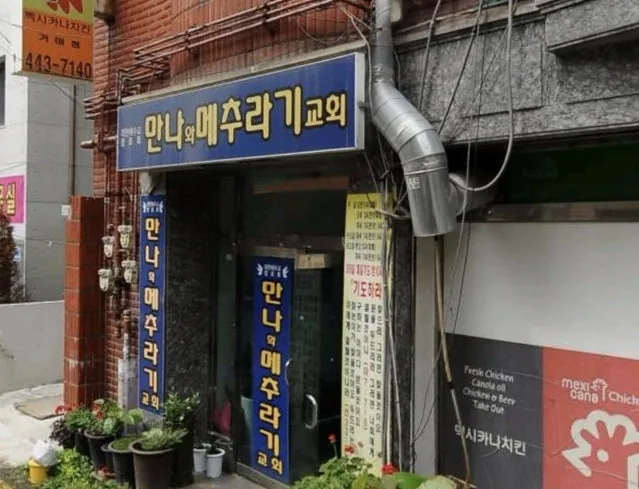
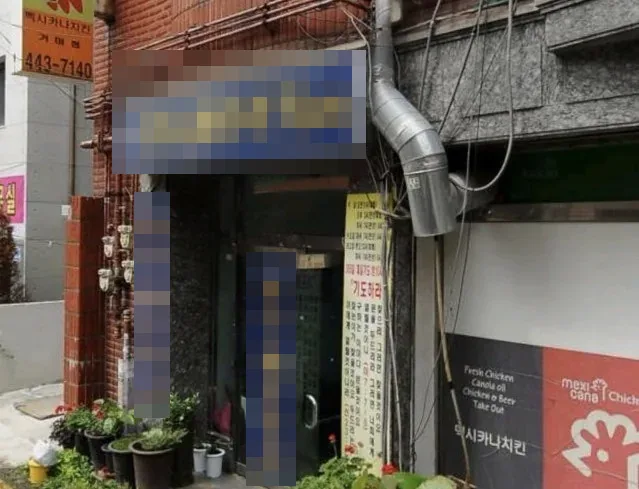
feat: 옛 교회 사진 추가 및 거여동 사진 간판 모자이크 #1

Changed region(s): [[0.1487, 0.092, 0.5947, 0.8589], [0.3865, 0.4908, 0.4757, 1.0]]

diff --git a/client/src/constants/storyHero.ts b/client/src/constants/storyHero.ts
@@ -59,7 +59,8 @@ export const STORY_HERO: StoryHeroContent = {
       desc: "창립 16주년 봄부터 준비해 이전 감사예배를 드렸습니다.",
       bg: { src: `${H}/2006-hanam-outdoor.webp`, tone: "fade2" },
       cards: [
-        { src: `${H}/2006-hanam-thanksgiving.webp`, caption: "2006년 7월 하남 이전 감사예배" },
+        { src: `${H}/2006-hanam-thanksgiving-sermon.webp`, caption: "2006년 7월 창립기념 및 이전감사예배" },
+        { src: `${H}/2006-hanam-thanksgiving-choir.webp`, caption: "이전감사예배 찬양" },
         { src: `${H}/2006-hanam-outdoor.webp`, caption: "하남 감이동 전원교회" },
       ],
     },
@@ -110,9 +111,9 @@ export const STORY_HERO: StoryHeroContent = {
       desc: "태아였던 아이들까지 자라 결혼하고, 3대가 함께 예배합니다.",
       bg: { src: `${C}/group-33rd-2023.webp`, tone: "fade1" },
       cards: [
-        { src: `${H}/early-kids.webp`, caption: "그때의 꼬맹이들" },
+        { src: `${H}/early-kids-christmas.webp`, caption: "그때의 꼬맹이들" },
+        { src: `${H}/2006-kids-door.webp`, caption: "문 앞에 모인 아이들" },
         { src: `${C}/youth-2023.webp`, caption: "지금의 청년들" },
-        { src: `${C}/group-33rd-2023.webp`, caption: "창립 33주년 감사예배" },
       ],
     },
   ],

diff --git a/client/src/constants/content.ts b/client/src/constants/content.ts
@@ -175,7 +175,7 @@ export const HISTORY = {
         "2006년 7월 이전 감사예배",
       ],
       significance: "전원교회를 꿈꾸며 내디딘 걸음",
-      media: { type: "image", src: "/assets/history/2006-hanam-thanksgiving.webp", alt: "2006년 하남 이전 감사예배" },
+      media: { type: "image", src: "/assets/history/2006-hanam-thanksgiving-sermon.webp", alt: "2006년 하남 창립기념 및 이전감사예배" },
     },
     {
       id: "2006-08",

diff --git a/client/public/assets/SOURCES.md b/client/public/assets/SOURCES.md
@@ -17,3 +17,5 @@
 
 - `history/1990-2006-*-now`: 옛 예배처소 자리의 **현재 모습**(당시 사진 아님).
 - `history/early-kids`: 촬영 연도 미상.
+- `history/early-kids-christmas`·`2006-kids-door`·`early-worship-interior`·`2006-hanam-thanksgiving-sermon`·`2006-hanam-thanksgiving-choir`: 교회 제공 원본(2026-11-12 카카오톡 수령) → 긴 변 최대 1600px, EXIF 제거.
+- `history/1990-2006-geoyeo-4-3-now`: 현재 입주한 다른 교회 간판은 모자이크 처리.
